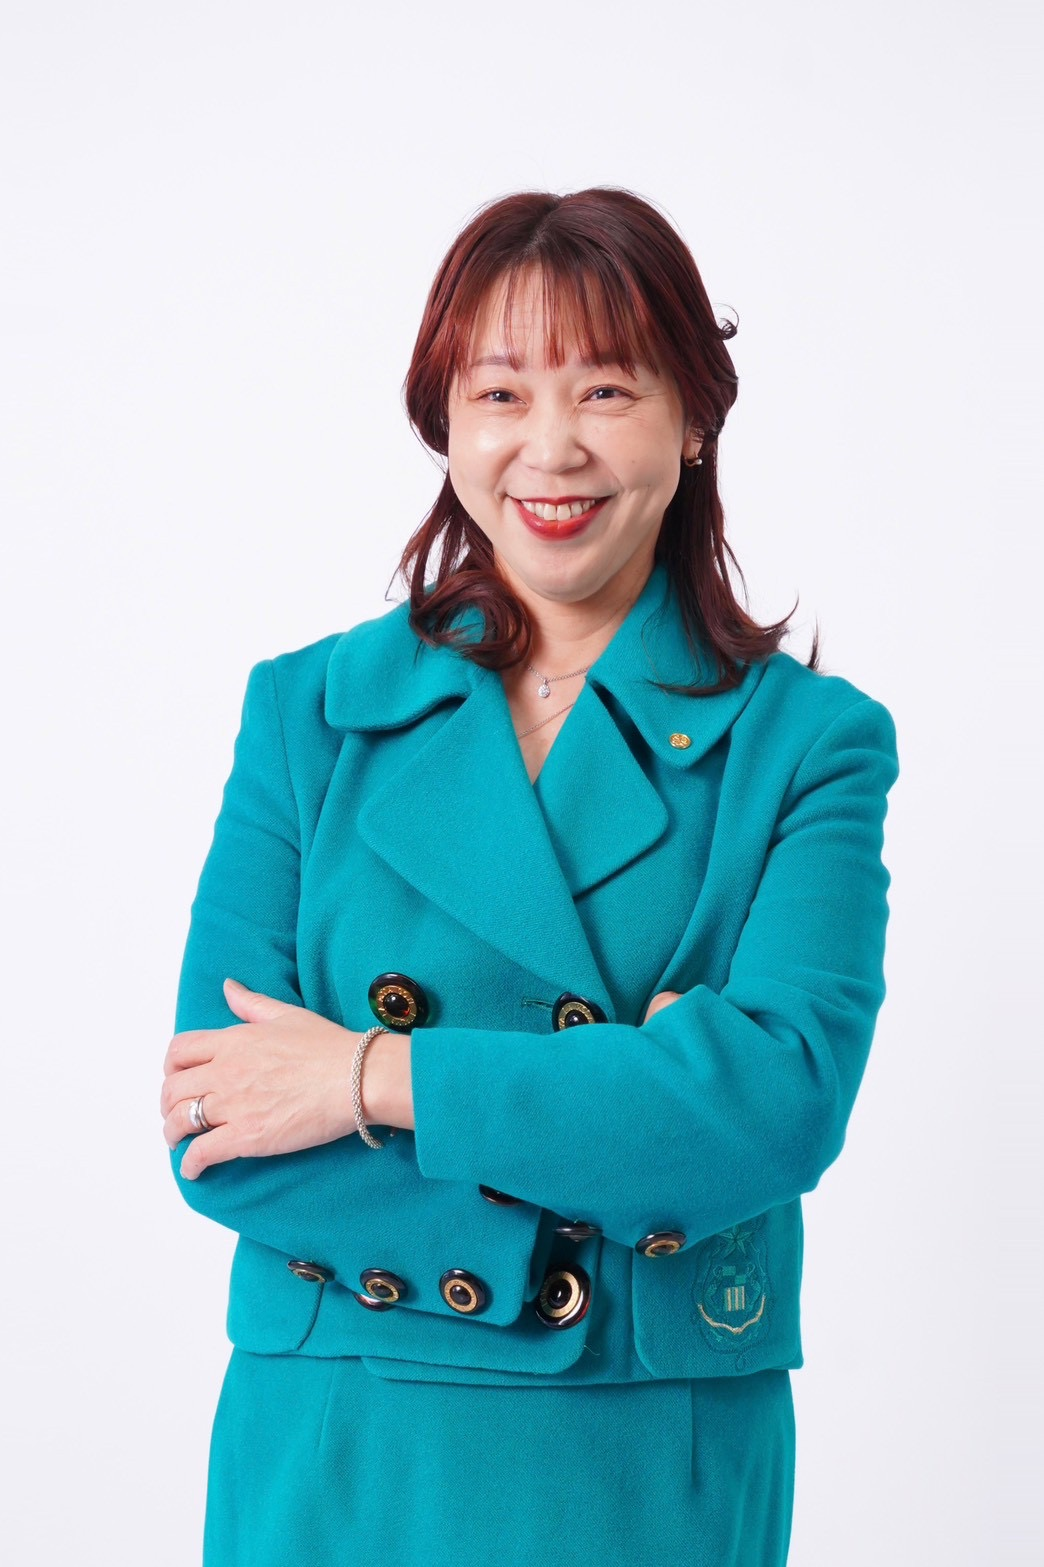
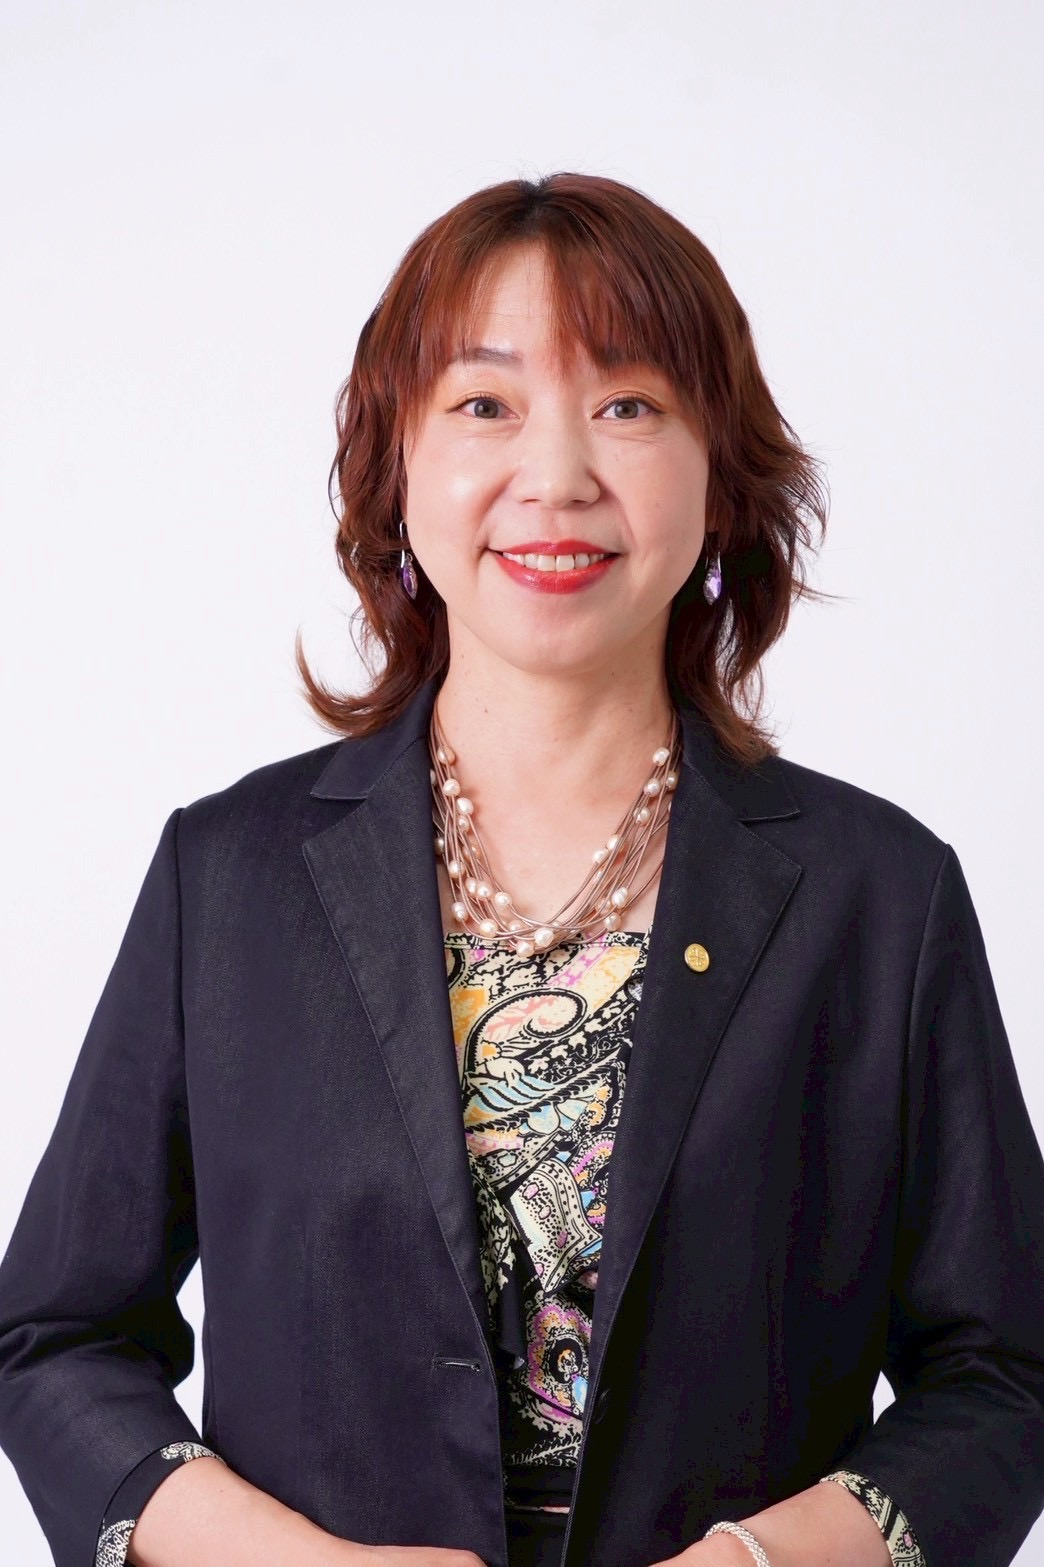
fix: ヒーロー画像差替え・「講座を探す」リンク先を/services/に修正

diff --git a/index.html b/index.html
@@ -113,7 +113,7 @@
             <li><a href="/keiko-takehara-website/faq/">FAQ</a></li>
             <li><a href="/keiko-takehara-website/contact/">お問い合わせ</a></li>
           </ul>
-          <a class="btn btn-primary" href="/keiko-takehara-website/booking/">講座を探す</a>
+          <a class="btn btn-primary" href="/keiko-takehara-website/services/">講座を探す</a>
         </nav>
         <button class="menu-toggle" type="button" aria-label="メニュー" data-menu-toggle aria-expanded="false">
           <span></span><span></span><span></span>
@@ -127,7 +127,7 @@
         <a href="/keiko-takehara-website/blog/">コラム</a>
         <a href="/keiko-takehara-website/faq/">FAQ</a>
         <a href="/keiko-takehara-website/contact/">お問い合わせ</a>
-        <a class="btn btn-primary" href="/keiko-takehara-website/booking/">講座を探す</a>
+        <a class="btn btn-primary" href="/keiko-takehara-website/services/">講座を探す</a>
       </div>
     </header>
 
@@ -143,7 +143,7 @@
               家族関係の変容をサポートしています。
             </p>
             <div class="hero-cta">
-              <a class="btn btn-primary" href="/keiko-takehara-website/booking/">講座を探す</a>
+              <a class="btn btn-primary" href="/keiko-takehara-website/services/">講座を探す</a>
               <a class="btn btn-secondary" href="/keiko-takehara-website/services/">サービスを見る</a>
             </div>
             <p><small>医療行為ではなく、日常のセルフケアと対話に重点を置いた支援です。</small></p>
@@ -437,7 +437,7 @@
               <li><a href="/keiko-takehara-website/blog/">コラム</a></li>
               <li><a href="/keiko-takehara-website/faq/">FAQ</a></li>
               <li><a href="/keiko-takehara-website/contact/">お問い合わせ</a></li>
-              <li><a href="/keiko-takehara-website/booking/">講座を探す</a></li>
+              <li><a href="/keiko-takehara-website/services/">講座を探す</a></li>
               <li><a href="https://m.mirossacademy.online/?utm_source=keiko-balance&amp;utm_medium=website&amp;utm_content=online" target="_blank" rel="noopener noreferrer">オンライン講座</a></li>
               <li><a href="https://www.mirossacademy.com/tcher/keiko_takehara/?utm_source=keiko-balance&amp;utm_medium=website&amp;utm_content=inperson" target="_blank" rel="noopener noreferrer">リモート・対面講座</a></li>
             </ul>
